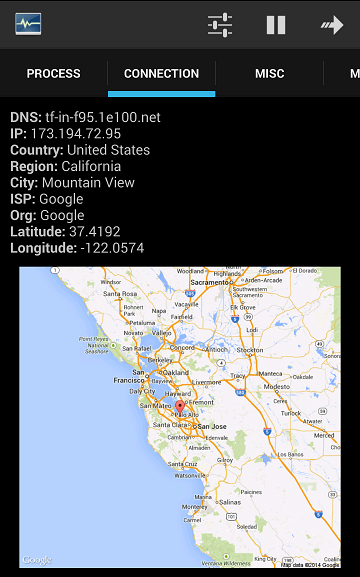
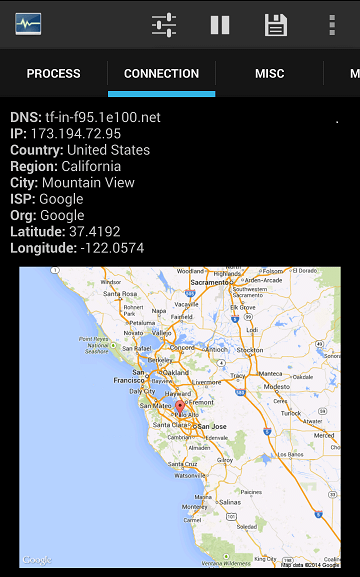
update maunal

diff --git a/maunal/index.html b/maunal/index.html
@@ -50,7 +50,8 @@ This tab displays all network connections include protocol, internet address, st
 
 (1) Enter settings. <i>(check settings)</i><br/>
 (2) Stop refreshing.<br/>
-(3) Exit itself.<br/><br/>
+(3) Export current connections information.<br/>
+(4) Exit itself.<br/><br/>
 <img src="image/connection-01.png" width="100%" /><br/><br/>
 
 If you click on a single process, it show the location of destination IP via WHOIS api. <i>(press back to return list)</i><br/><br/>
